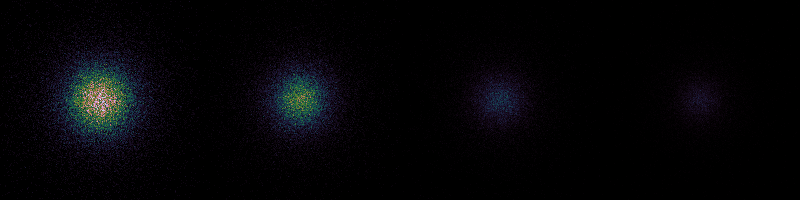
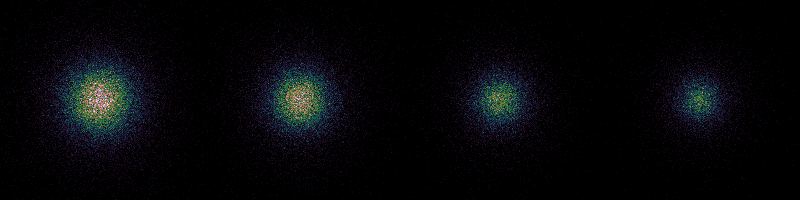
FIX PHOTOMETRY NORMALIZATION ISSUE

diff --git a/api/src/field/observing_mode.rs b/api/src/field/observing_mode.rs
@@ -119,9 +119,6 @@ impl Intensity for Observing<SeeingLimited> {
                     .shift()
                     .resize(intensity_sampling)
                     .norm()
-                    .into_iter()
-                    .map(|x| x / zp_dft.len().pow(2) as f64)
-                    .collect()
             })
     }
 }
@@ -192,9 +189,6 @@ impl Intensity for Observing<AdaptiveOptics> {
                         .shift()
                         .resize(intensity_sampling)
                         .norm()
-                        .into_iter()
-                        .map(|x| x / zp_dft.len().pow(2) as f64)
-                        .collect()
                 },
             )
     }

diff --git a/api/examples/jwst/main.rs b/api/examples/jwst/main.rs
@@ -1,6 +1,12 @@
+use std::{env, path::Path};
+
 use eyepiece::{Builder, Field, FieldBuilder, Jwst, Observer, PixelScale};
 
 fn main() -> anyhow::Result<()> {
+    let path = Path::new(&env::var("CARGO_MANIFEST_DIR")?)
+        .join("examples")
+        .join("jwst");
+
     let jwst = Jwst::new();
     jwst.show_pupil(None)?;
     let mut field: Field<Jwst> = FieldBuilder::new(jwst)
@@ -8,6 +14,6 @@ fn main() -> anyhow::Result<()> {
         .field_of_view(41)
         .build();
     println!("{field}");
-    field.save("image.png", Default::default())?;
+    field.save(path.join("image.png"), Default::default())?;
     Ok(())
 }

diff --git a/api/examples/gmt/main.rs b/api/examples/gmt/main.rs
@@ -1,12 +1,18 @@
+use std::{env, path::Path};
+
 use eyepiece::{Builder, Field, FieldBuilder, Gmt, Observer, PixelScale};
 
 fn main() -> anyhow::Result<()> {
+    let path = Path::new(&env::var("CARGO_MANIFEST_DIR")?)
+        .join("examples")
+        .join("gmt");
+
     let gmt = Gmt::new();
     gmt.show_pupil(None)?;
     let mut field: Field<Gmt> = FieldBuilder::new(gmt)
         .pixel_scale(PixelScale::NyquistFraction(4))
         .build();
     println!("{field}");
-    field.save("image.png", Default::default())?;
+    field.save(path.join("image.png"), Default::default())?;
     Ok(())
 }

diff --git a/api/src/zpdft.rs b/api/src/zpdft.rs
@@ -122,6 +122,9 @@ impl ZpDft {
             self.zero_padded_buffer.as_mut_slice(),
             self.scratch.as_mut_slice(),
         );
+        self.zero_padded_buffer
+            .iter_mut()
+            .for_each(|buffer| *buffer /= self.len as f64);
         self
     }
     /// FFT buffer real part
